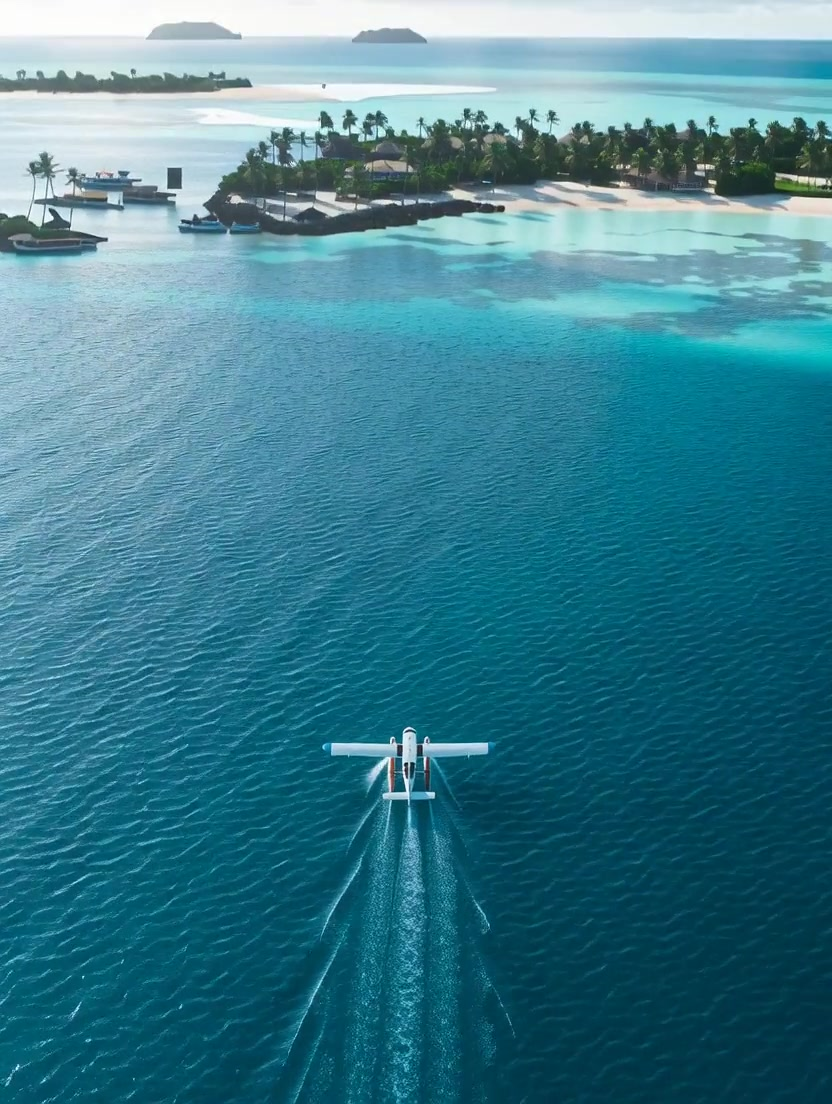
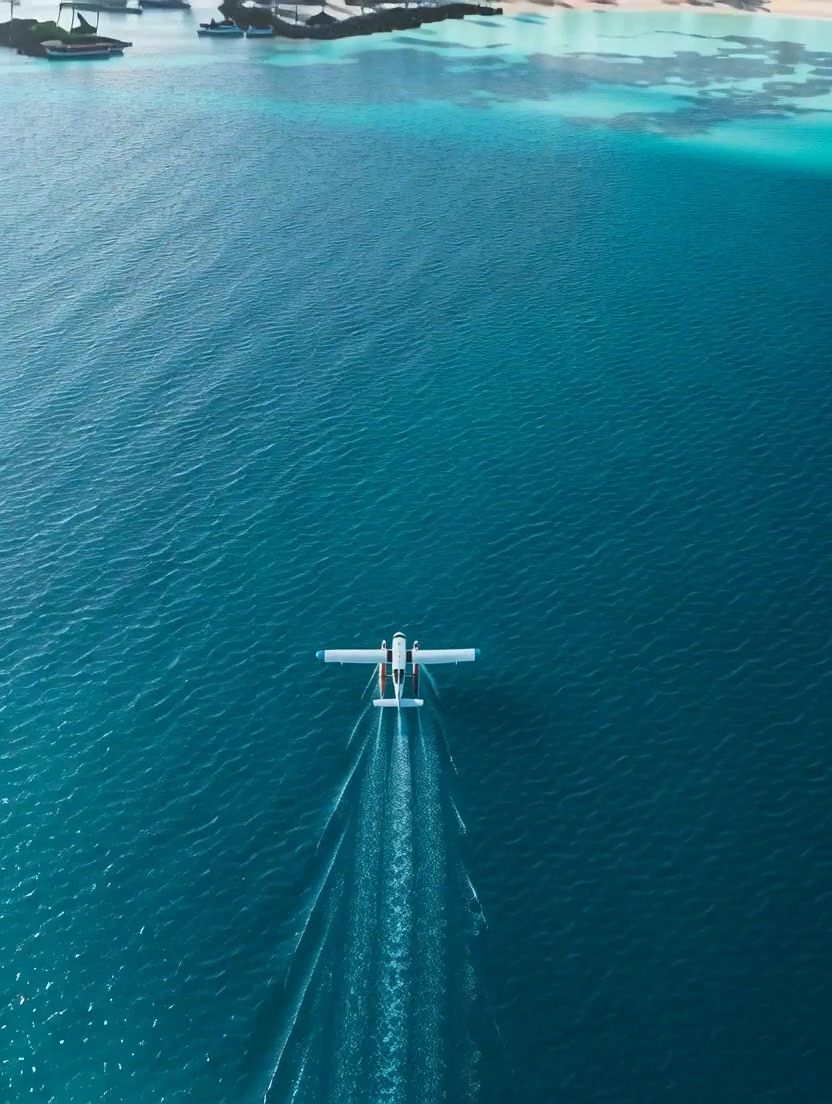
Splash: kill the messy entrance
Three fixes for the jumpy intro:
1. Poster regenerated from the exact first frame of the trimmed clip
   (offset 1.0s in source) so the handoff from poster → playing video is
   visually identical — no frame jump.
2. Removed the 0.6s opacity fade-in on .splash-video. The poster was
   crossfading with the moving video underneath, so the two layers were
   at different frames and looked broken. Now the video shows at full
   opacity from mount; the matching poster makes the swap invisible.
3. <html> and <body> get an inline teal background so iOS doesn't flash
   white between the home-screen tap and React booting.

diff --git a/src/app/layout.tsx b/src/app/layout.tsx
@@ -22,13 +22,16 @@ export const viewport: Viewport = {
 
 export default function RootLayout({ children }: { children: React.ReactNode }) {
   return (
-    <html lang="en">
+    // Paint the splash teal as the very first byte of HTML so iOS doesn't
+    // flash white between the home-screen tap and React booting. Once the
+    // stylesheet loads, body bg takes over for the rest of the app.
+    <html lang="en" style={{ background: '#065465' }}>
       <head>
         <link rel="preconnect" href="https://fonts.googleapis.com" />
         <link rel="preconnect" href="https://fonts.gstatic.com" crossOrigin="anonymous" />
         <link href="https://fonts.googleapis.com/css2?family=Cormorant+Garamond:ital,wght@0,500;0,600;1,500;1,600&family=Inter+Tight:wght@300;400;500;600;700&family=JetBrains+Mono:wght@400;500;600&display=swap" rel="stylesheet" />
       </head>
-      <body>
+      <body style={{ background: '#065465' }}>
         <LaunchAnimation />
         {children}
       </body>

diff --git a/src/app/globals.css b/src/app/globals.css
@@ -2793,13 +2793,9 @@ textarea.input {
   width: 100%;
   height: 100%;
   object-fit: cover;
-  opacity: 0;
-  animation: splash-video-in 0.6s ease forwards;
-}
-
-@keyframes splash-video-in {
-  from { opacity: 0; }
-  to { opacity: 1; }
+  /* Video sits at full opacity from mount. The poster underneath is the
+     exact first frame, so the handoff from poster → playing video is
+     visually invisible — no crossfade, no jump. */
 }
 
 @media (prefers-reduced-motion: reduce) {
